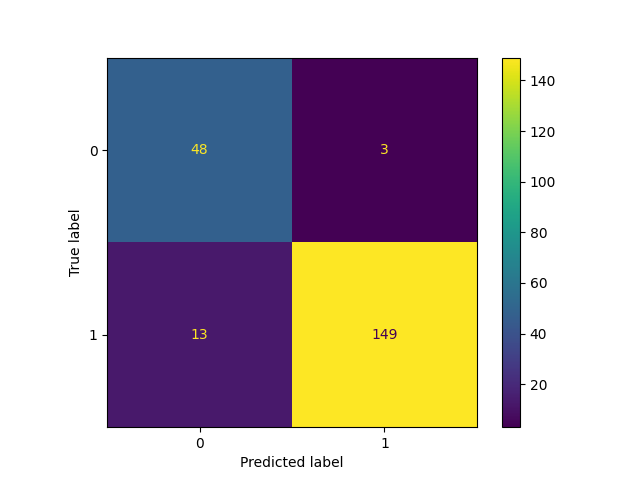
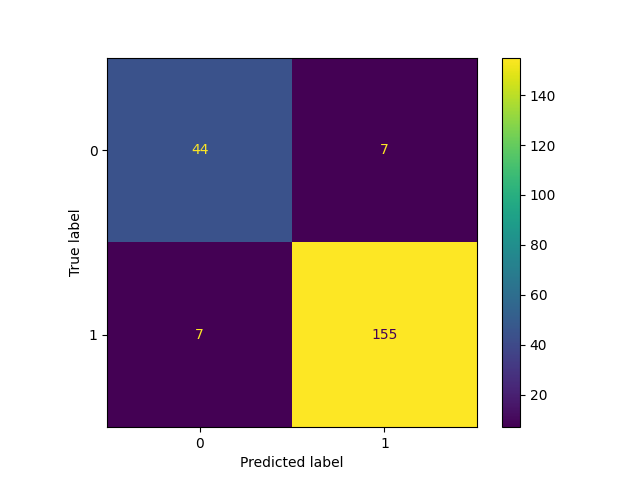
Final operators

diff --git a/src/sol/main.py b/src/sol/main.py
@@ -8,9 +8,9 @@ from Stats import config_stats, plot_fitness_penalty
 from Output import save_generated_tree, plot_conf_matrix, print_metrics_report
 
 
-def main(CXPB=0.5, MUTPB=0.2, NGEN=50, NIND=500, use_binary=True,
+def main(CXPB=0.5, MUTPB=0.2, NGEN=30, NIND=200, use_binary=True,
          save_tree=True, plot_stats=True, plot_matrix=True, debug=True,
-         max_tree_height=5, max_subtree_height=3, max_mutated_subtree_height=2):
+         max_tree_height=10, max_subtree_height=3, max_mutated_subtree_height=2):
 
     # Create toolbox.
     # -----------------------------

diff --git a/src/sol/Configuration.py b/src/sol/Configuration.py
@@ -23,11 +23,11 @@ def config_individual():
     pset.addPrimitive(operator.sub, 2)
     pset.addPrimitive(operator.mul, 2)
     pset.addPrimitive(operator.neg, 1)
-    pset.addPrimitive(protDiv, 2)
     # pset.addPrimitive(operator.abs, 1)
+    pset.addPrimitive(protDiv, 2)
     # pset.addPrimitive(protSqrt, 1)
-    # pset.addPrimitive(math.cos, 1)
-    # pset.addPrimitive(math.sin, 1)
+    pset.addPrimitive(math.cos, 1)
+    pset.addPrimitive(math.sin, 1)
 
     # pset.addEphemeralConstant("rand101", lambda: random.randint(0, 10))
 
